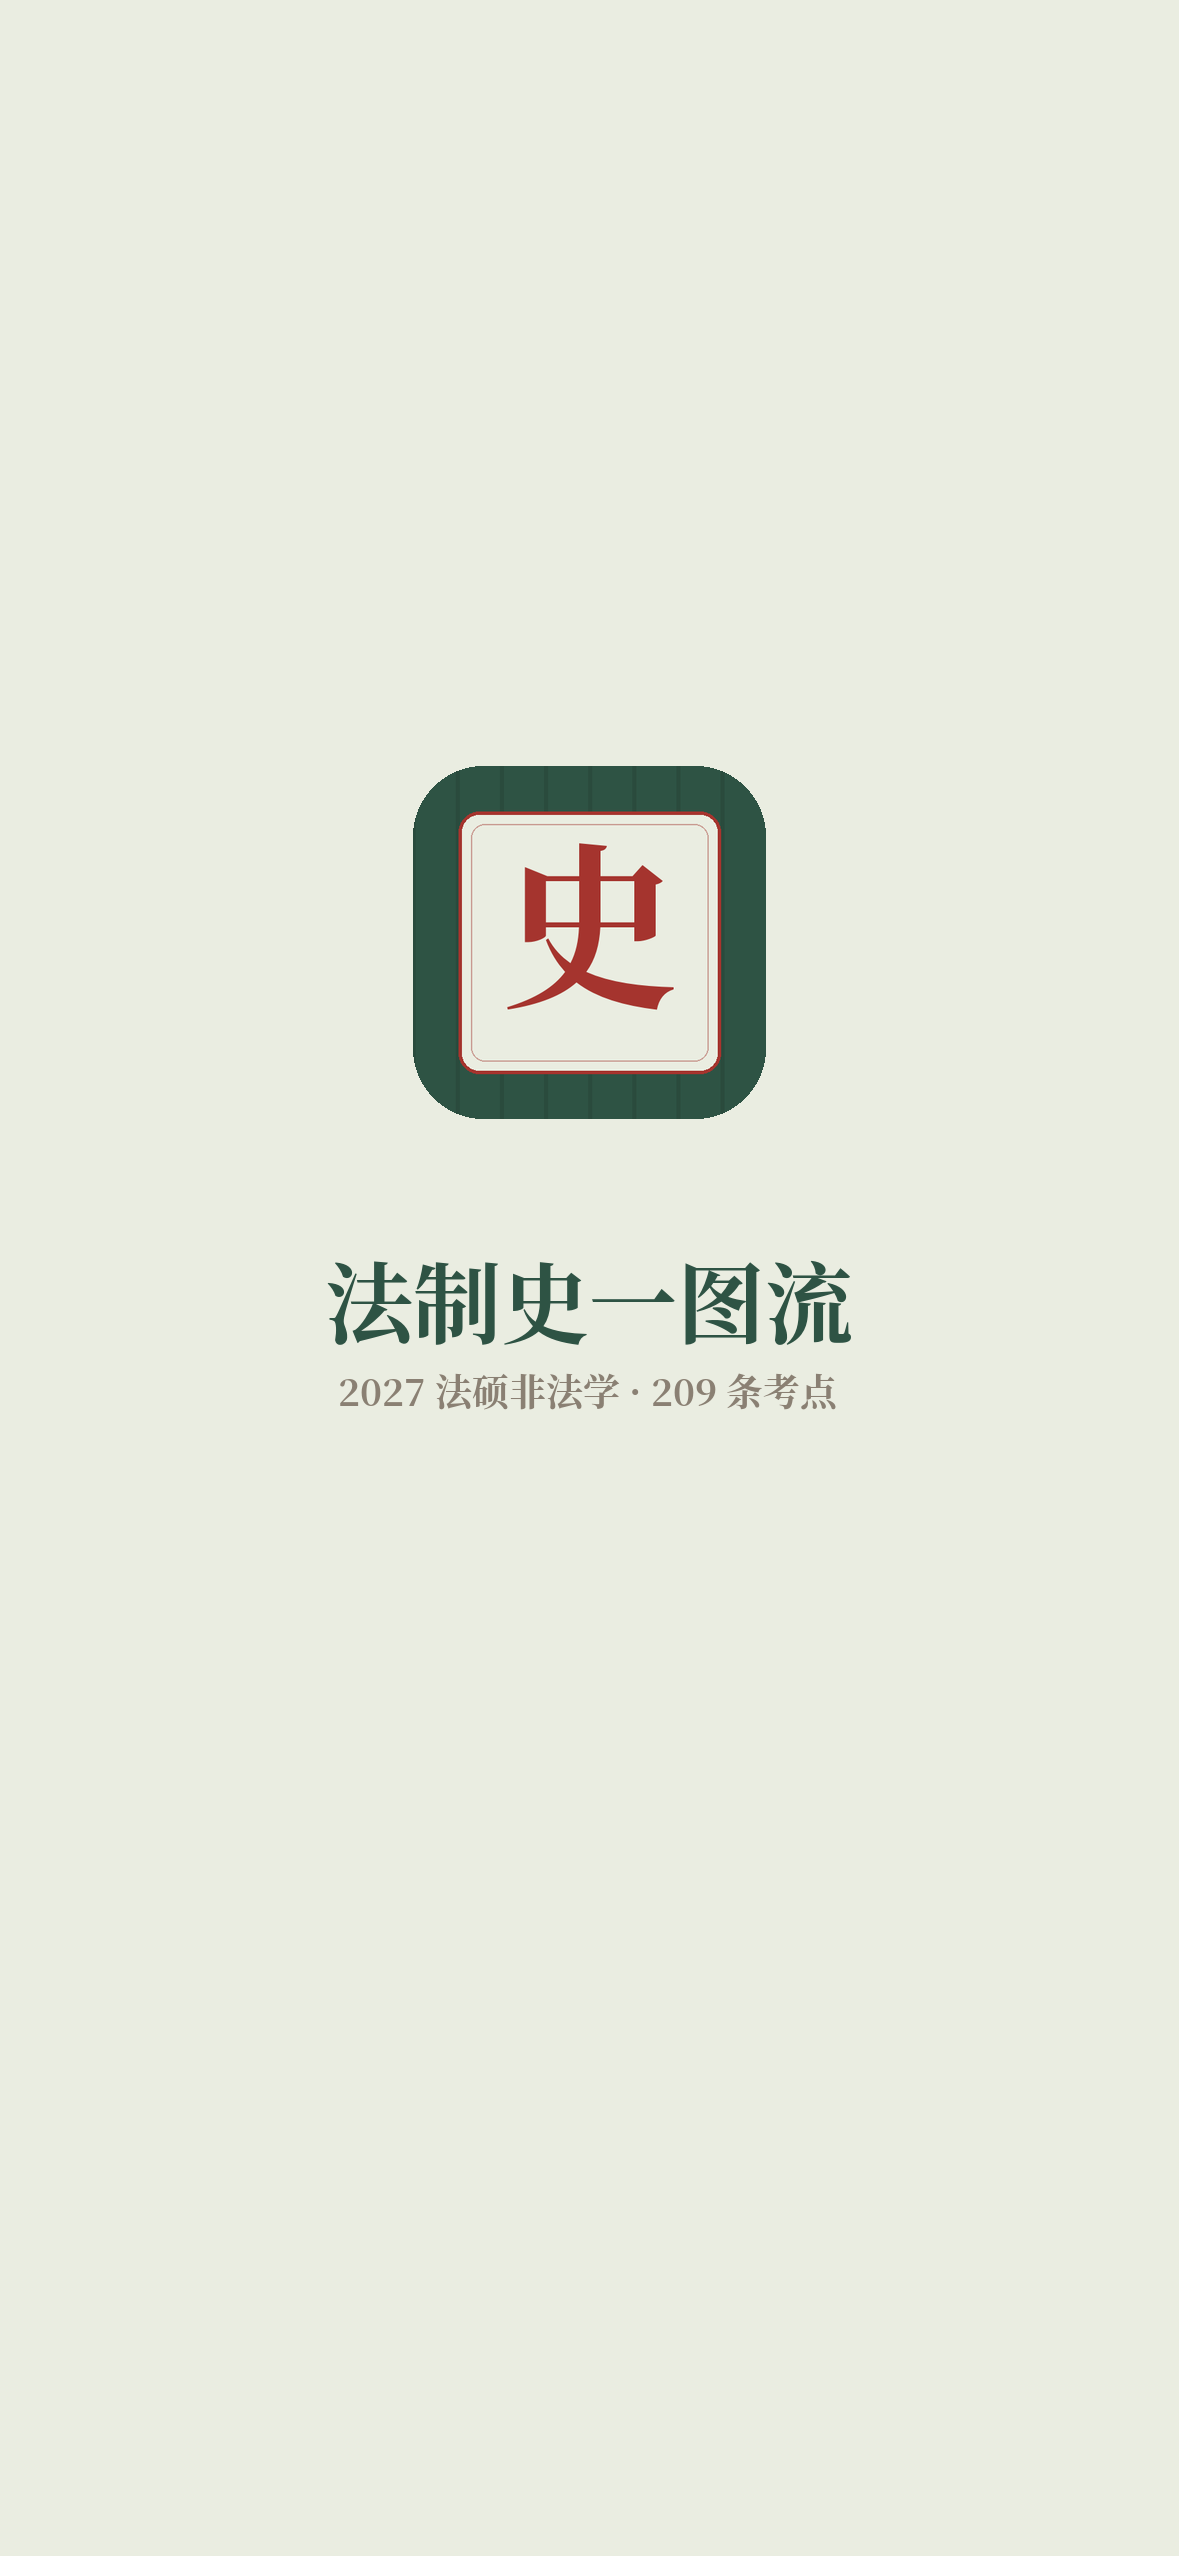
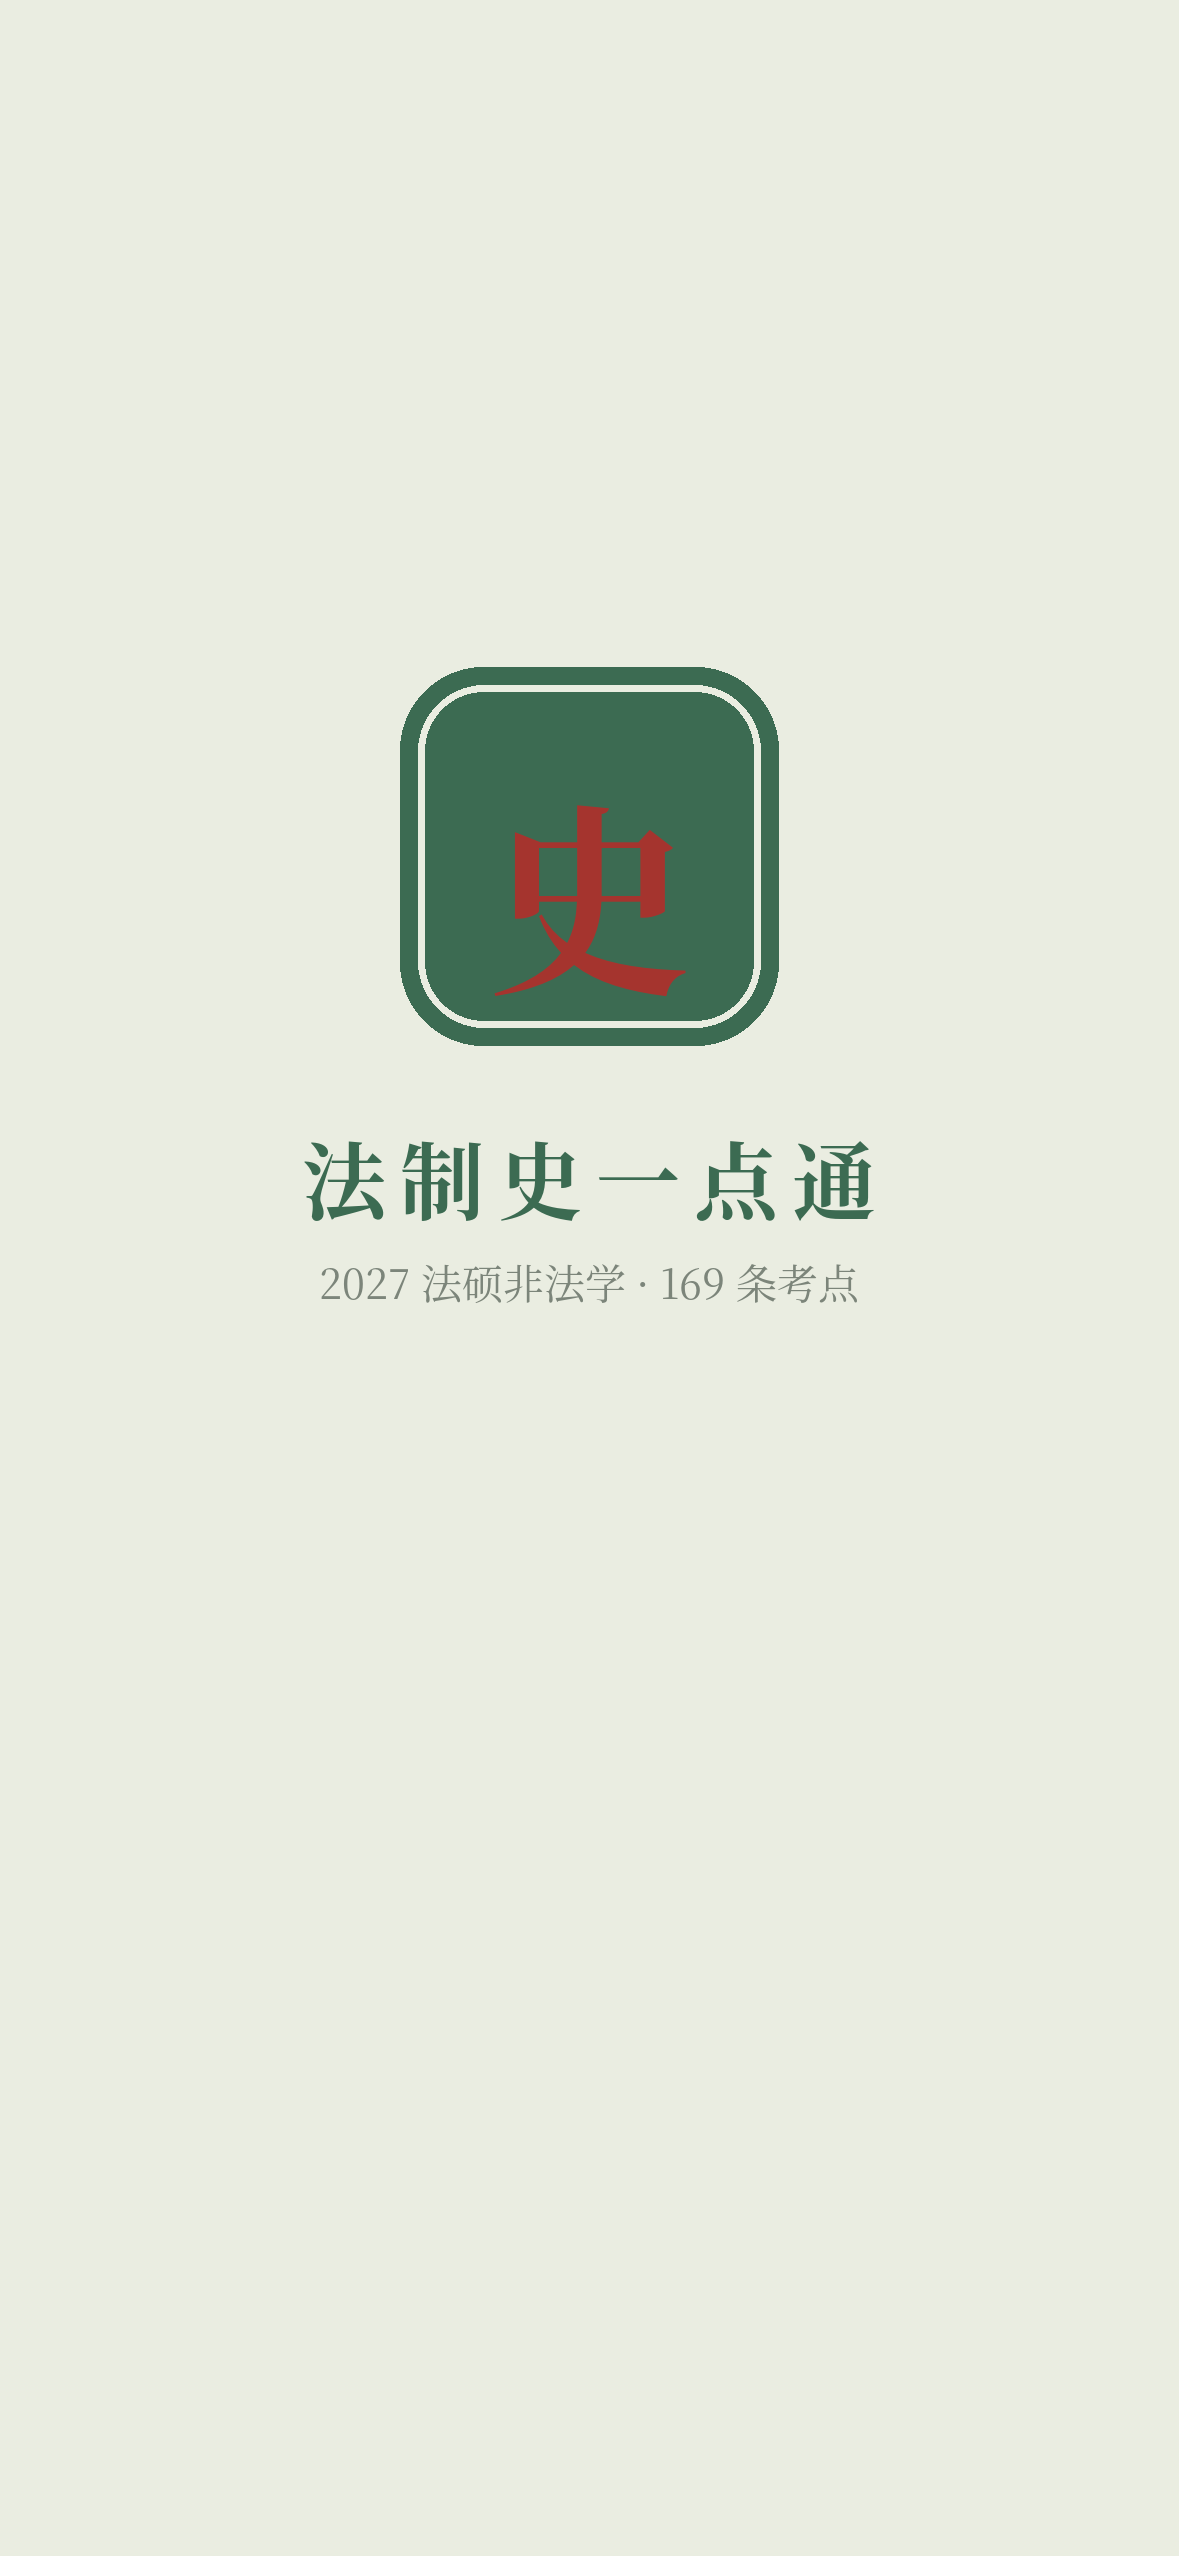
chore: 法制史 v3.5.0 发布（补丁 10）+ version.json 自动同步

Changed region(s): [[0.2443, 0.2473, 0.7328, 0.5563]]

diff --git a/index.html b/index.html
@@ -16,9 +16,9 @@
 <link rel="apple-touch-icon-precomposed" href="apple-touch-icon.png">
 <link rel="icon" type="image/png" sizes="192x192" href="icon-192.png">
 <link rel="manifest" href="manifest.webmanifest">
-<link rel="apple-touch-startup-image" media="(device-width: 430px) and (device-height: 932px) and (-webkit-device-pixel-ratio: 3)" href="startup-1290x2796.png">
-<link rel="apple-touch-startup-image" media="(device-width: 393px) and (device-height: 852px) and (-webkit-device-pixel-ratio: 3)" href="startup-1179x2556.png">
-<link rel="apple-touch-startup-image" media="(device-width: 390px) and (device-height: 844px) and (-webkit-device-pixel-ratio: 3)" href="startup-1170x2532.png">
+<link rel="apple-touch-startup-image" media="(device-width: 430px) and (device-height: 932px) and (-webkit-device-pixel-ratio: 3)" href="https://aka.doubaocdn.com/s/JDVDiq07o8">
+<link rel="apple-touch-startup-image" media="(device-width: 393px) and (device-height: 852px) and (-webkit-device-pixel-ratio: 3)" href="https://aka.doubaocdn.com/s/tKyR23dyIQ">
+<link rel="apple-touch-startup-image" media="(device-width: 390px) and (device-height: 844px) and (-webkit-device-pixel-ratio: 3)" href="https://aka.doubaocdn.com/s/XYAU2RvUgj">
 <title>法制史一点通</title>
 <style>
 :root{
@@ -94,6 +94,41 @@ svg{display:block}
   font-family:var(--serif);font-size:16px;letter-spacing:0;
   box-shadow:0 4px 10px -4px rgba(140,44,38,.6), inset 0 0 0 1.5px rgba(255,240,214,.28);
   transform:rotate(-3deg);
+}
+/* ---------- 启动屏：首帧与 iOS 启动图同构，随后简牍展开 ---------- */
+.sp-logo{position:relative;width:96px;height:96px;margin-bottom:26px}
+.sp-seal{position:absolute;inset:0;border-radius:22px;background:var(--bamboo);color:var(--zhu);
+  display:grid;place-items:center;font-family:var(--serif);font-size:50px;font-weight:800;line-height:1;letter-spacing:.04em;
+  box-shadow:0 20px 44px -18px rgba(20,45,32,.55),inset 0 0 0 4px rgba(234,237,225,.92),inset 0 0 0 5px rgba(20,45,32,.26);
+  animation:spSeal .58s cubic-bezier(.3,.8,.3,1) both}
+.sp-slips{position:absolute;inset:0;display:flex;align-items:center;justify-content:center;gap:5px;
+  opacity:0;transform-origin:center;animation:spSlips .92s cubic-bezier(.2,.8,.3,1) .58s both}
+.sp-slips i{display:block;width:11px;height:62px;border-radius:3px;position:relative;overflow:hidden;
+  background:linear-gradient(180deg,#D9CBA6,#BFAF85);
+  box-shadow:inset -1px 0 0 rgba(96,82,52,.38),inset 1px 0 0 rgba(255,250,236,.55),0 4px 10px -5px rgba(60,52,30,.55);
+  transform-origin:top center}
+.sp-slips i:before{content:"";position:absolute;left:50%;top:7px;bottom:7px;width:1px;margin-left:-.5px;background:rgba(96,82,52,.3)}
+.sp-slips i:after{content:"";position:absolute;left:2px;right:2px;top:26px;height:1px;background:rgba(96,82,52,.22)}
+.sp-slips i:nth-child(1){animation-delay:.62s}
+.sp-slips i:nth-child(2){animation-delay:.67s}
+.sp-slips i:nth-child(3){animation-delay:.72s}
+.sp-slips i:nth-child(4){animation-delay:.77s}
+.sp-slips i:nth-child(5){animation-delay:.82s}
+.sp-mark{margin:0 0 10px;font-family:var(--serif);font-size:27px;font-weight:700;letter-spacing:.14em;
+  color:var(--bamboo);animation:spUp .48s ease .86s both}
+.sp-sub{margin:0;font-size:12.5px;letter-spacing:.1em;color:var(--ink-3);animation:spUp .48s ease .96s both}
+.sp-sub #spTotal{color:var(--zhu);font-weight:600}
+.sp-strip{margin-top:20px;display:flex;align-items:center;gap:7px;font-size:11px;letter-spacing:.16em;
+  color:var(--bamboo);opacity:.82;animation:spUp .48s ease 1.06s both}
+.sp-strip s{display:block;width:24px;height:1px;background:var(--bamboo);opacity:.45;text-decoration:none}
+@keyframes spSeal{0%{opacity:0;transform:scale(.96)}20%{opacity:1;transform:scale(1)}
+  62%{opacity:1;transform:scale(1)}
+  100%{opacity:0;transform:scale(.9)}}
+@keyframes spSlips{0%{opacity:0;transform:scaleY(.14)}22%{opacity:1;transform:scaleY(1)}86%{opacity:1;transform:scaleY(1)}100%{opacity:0;transform:scaleY(1)}}
+@keyframes spUp{from{opacity:0;transform:translateY(8px)}to{opacity:1;transform:none}}
+@media (prefers-reduced-motion:reduce){
+  .sp-seal,.sp-slips,.sp-slips i,.sp-mark,.sp-sub,.sp-strip{animation:none !important}
+  .sp-seal{opacity:1}.sp-slips{display:none}
 }
 /* ---------- 启动屏：简牍展开 ---------- */
 .splash{position:fixed;inset:0;z-index:9999;background:var(--paper);
@@ -1166,7 +1201,15 @@ html[data-theme="night"] .mode-btn{background:var(--card);color:var(--red);borde
 </head>
 <body>
 
-<!-- 页内启动页已移除：主屏幕启动图已负责首帧，再叠一层会出现两次启动画面 -->
+<div class="splash" id="splash" aria-hidden="true">
+  <div class="sp-logo">
+    <div class="sp-seal">史</div>
+    <div class="sp-slips"><i></i><i></i><i></i><i></i><i></i></div>
+  </div>
+  <h1 class="sp-mark">法制史一点通</h1>
+  <p class="sp-sub">2027 法硕非法学 · <span id="spTotal">169 条考点</span></p>
+  <div class="sp-strip"><s></s>断代史 / 专题史 · 背诵一本通<s></s></div>
+</div>
 
 <header class="topbar">
   <div class="wrap">
@@ -1193,7 +1236,7 @@ html[data-theme="night"] .mode-btn{background:var(--card);color:var(--red);borde
     <div class="hero">
       <div class="eyebrow">2027 · 法硕非法学 · 中国法制史</div>
       <h1>法制史<br><em>一点通</em></h1>
-      <div class="hero-sub">169 条考点 · 29 个专题 · 23 个朝代段</div>
+      <div class="hero-sub">209 条考点 · 29 个专题 · 23 个朝代段</div>
       <div class="stamp serif">史</div>
     </div>
 
@@ -5004,21 +5047,23 @@ migrateSrs();
 applyMode(); chipRow(); renderHome(); renderList(); renderCloze();
 
 const VER='3.5.0';
-const PATCH='9';   /* 同一版本内的补丁号；0 表示版本本体 */
+const PATCH='10';   /* 同一版本内的补丁号；0 表示版本本体 */
 const CHANGELOG = [
 {v:'3.5.0',d:'2026-11-15',kind:'minor',sum:'改为登录后解锁全部板块，用户中心独立成一页',items:[
 ['变更','未注册登录时只开放「总览」：断代史 / 专题史、检索、卡片正文都能看，掌握与笔记照常记；速览、背诵、专题、刷题按下会直接跳到「我的」页要求登录'],
 ['新增','底部导航新增第六项「我的」：账号状态、登录 / 注册（验证码为主、密码兜底）、掌握/收藏/笔记三项计数、昵称、同步状态与手动同步/拉取、学习统计、离线备份与备份码、退出登录，全部集中在这一页'],
 ['新增','登录后可设昵称（写入云端 profiles.nickname），换设备登录昵称跟着走'],
 ['优化','设置面板不再塞账号块，只留一个「账号与同步」入口跳到「我的」，设置本身只剩外观、字号、学习、数据'],
-['修复','进入 App 出现两次启动画面：主屏幕启动图之后页面里又叠了一层动画启动页，现把页面内那层移除，只保留系统启动图，冷启动少一次等待'],
+['修复','进入 App 出现两次启动画面：主屏启动图之后页面里又叠一层动画启动页 → 改为页内启动页首帧与主屏启动图同构（米底＋深绿框红「史」），从系统图平滑接上动效，只感知到一次启动（动效见后两条补丁）'],
 ['修复','退出登录后自动回到「总览」，且未登录时底栏被锁的板块变灰，点它会跳到「我的」要求登录'],
 ['调整','登录页重排：默认就是「邮箱 + 密码 + 登录」，下面并排两个按钮「注册新账号 / 验证码登录」。注册时密码与邮箱验证码必须同时给（验证码验过再落密码），注册完以后登录用密码或验证码都行'],
 ['新增','「我的」页加「修改密码」：填新密码两次，保存后本机仍在线，别的设备下次要重新登录。用验证码登录建出来、还没有密码的账号，也在这里补一个'],
 ['下线','离线备份 / 备份码按你的要求从界面移除：设置与「我的」页都不再出现这个入口（备份码、导出、导入三个功能代码没删，只是不暴露，将来要恢复改一个按钮即可）。登录后进度走云端同步，不再需要备份码'],
 ['修复','西周「主要立法」卡内容错位：原来第一条只剩「二是指西周的九种刑罚。」（前半句「一是指周朝制定的九篇刑书」被拆到了别的条目里），而卡片最下面又出现一条完整的「九刑／一是指…二是指…」造成上下重复。现把两半合并到第一条「九刑」下，删掉末尾那条重复，并把「刑」这一通名改成教材沿用的「九刑」'],
 ['修复','知识点小标题样式统一：以前很多卡片只有第一个小标题是加粗深红，后面对等的小标题被当成正文（灰）或重点句（蓝）显示。本轮把 169 张卡全部按行重判：①被吞进正文的标题（如「中枢行政机构【两府三司制】」「三司会审」）拆出来并升为标题；②本就该是标题却被标成普通文本的 53 处（申明亭、翻异别推制、重其所重、轻其所轻、评价、地方司法机关、家长权力扩大、立法宽简…）统一升为标题；③把正文碎片误标成标题的 13 处（「司是指中央理财机关」「纠纷和轻微的刑事案件」「礼程序」「另设有」等）降为正文并入原句；④修 5 行数据结构损坏（「三司会审」等被写成扁平数组，页面上只显示出第一个字）；⑤另有 2 处标题被吞字：西周婚姻「夫一妻制婚姻原则」→「一夫一妻制婚姻原则」；北洋「权宪法的组织方案」→「五权宪法的政府组织方案」（教材 p203 原文）'],
-['改版','卡片正文改成“知识点分块”：每个小节自动加序号徽章（深红方块数字）＋块间虚线，只有标题没有正文的讲义大纲名改成浅底章节条、不占序号；「1./2./3.」「（一）（二）」这类列举项单独成块并加左侧竖线，不会再糊成一片；字色收敛成三层——序号＋深红标题、墨色加粗关键词、灰黑正文，原来 5 种说不清含义的彩字全部取消；段落里带「（20xx修改/增补）」的自动挂「新修」标签；速览顶部加一条可关闭的“看板”图例']
+['改版','卡片正文改成“知识点分块”：每个小节自动加序号徽章（深红方块数字）＋块间虚线，只有标题没有正文的讲义大纲名改成浅底章节条、不占序号；「1./2./3.」「（一）（二）」这类列举项单独成块并加左侧竖线，不会再糊成一片；字色收敛成三层——序号＋深红标题、墨色加粗关键词、灰黑正文，原来 5 种说不清含义的彩字全部取消；段落里带「（20xx修改/增补）」的自动挂「新修」标签；速览顶部加一条可关闭的“看板”图例'],
+['恢复','重新加回进入 App 的动态启动页：首帧与主屏启动图完全同构（米底 #EAEDE1 ＋ 深绿圆角框红「史」），停顿后印章淡出、五片简牍整体展开 → 「法制史一点通」与「169 条考点」淡入 → 约 1.66 秒后整屏淡出，总时长约 2 秒；系统开启「减弱动态效果」时自动降级为静态首帧'],
+['修复','主屏启动图素材过时：图上文字还是改名前的「法制史一图流」和「209 条考点」，已按三个设备尺寸（1290×2796 / 1179×2556 / 1170×2532）重做为「法制史一点通 / 2027 法硕非法学 · 169 条考点」，版式与页内启动页一致']
 ] },
 {v:'3.4.0',d:'2026-11-15',kind:'minor',sum:'加账号与云同步（注册才同步），离线备份降级为兜底',items:[
 ['新增','设置顶部新增「账号与同步」：注册或登录后，掌握、收藏、复习排期、笔记自动同步到云端，换设备登录即接着背。不注册照常能背，只是进度只存本机（访客模式）'],
@@ -5275,6 +5320,20 @@ if('serviceWorker' in navigator){
     }catch(e){}
   });
 }
+
+/* ---------- 启动页：首帧对齐 iOS 启动图，约 1.55s 后淡出 ---------- */
+(function(){
+  const sp=document.getElementById('splash'); if(!sp) return;
+  const tot=document.getElementById('spTotal');
+  try{ if(tot && typeof PTS!=='undefined' && PTS.length) tot.textContent=PTS.length+' 条考点'; }catch(e){}
+  const t0=(performance&&performance.now)?performance.now():Date.now();
+  const hideSp=()=>{
+    const now=(performance&&performance.now)?performance.now():Date.now();
+    const wait=Math.max(220, 1660-(now-t0));
+    setTimeout(()=>{ sp.classList.add('hide'); setTimeout(()=>{ if(sp.parentNode) sp.parentNode.removeChild(sp); },480); }, wait);
+  };
+  if(document.readyState==='complete') hideSp(); else window.addEventListener('load',hideSp,{once:true});
+})();
 </script>
 </body>
 </html>

diff --git a/sw.js b/sw.js
@@ -1,4 +1,4 @@
-const CACHE='app-3.5.0-p9';
+const CACHE='app-3.5.0-p10';
 const CORE=['manifest.webmanifest','icon-192.png','icon-512.png','apple-touch-icon.png'];
 
 self.addEventListener('install',e=>{
